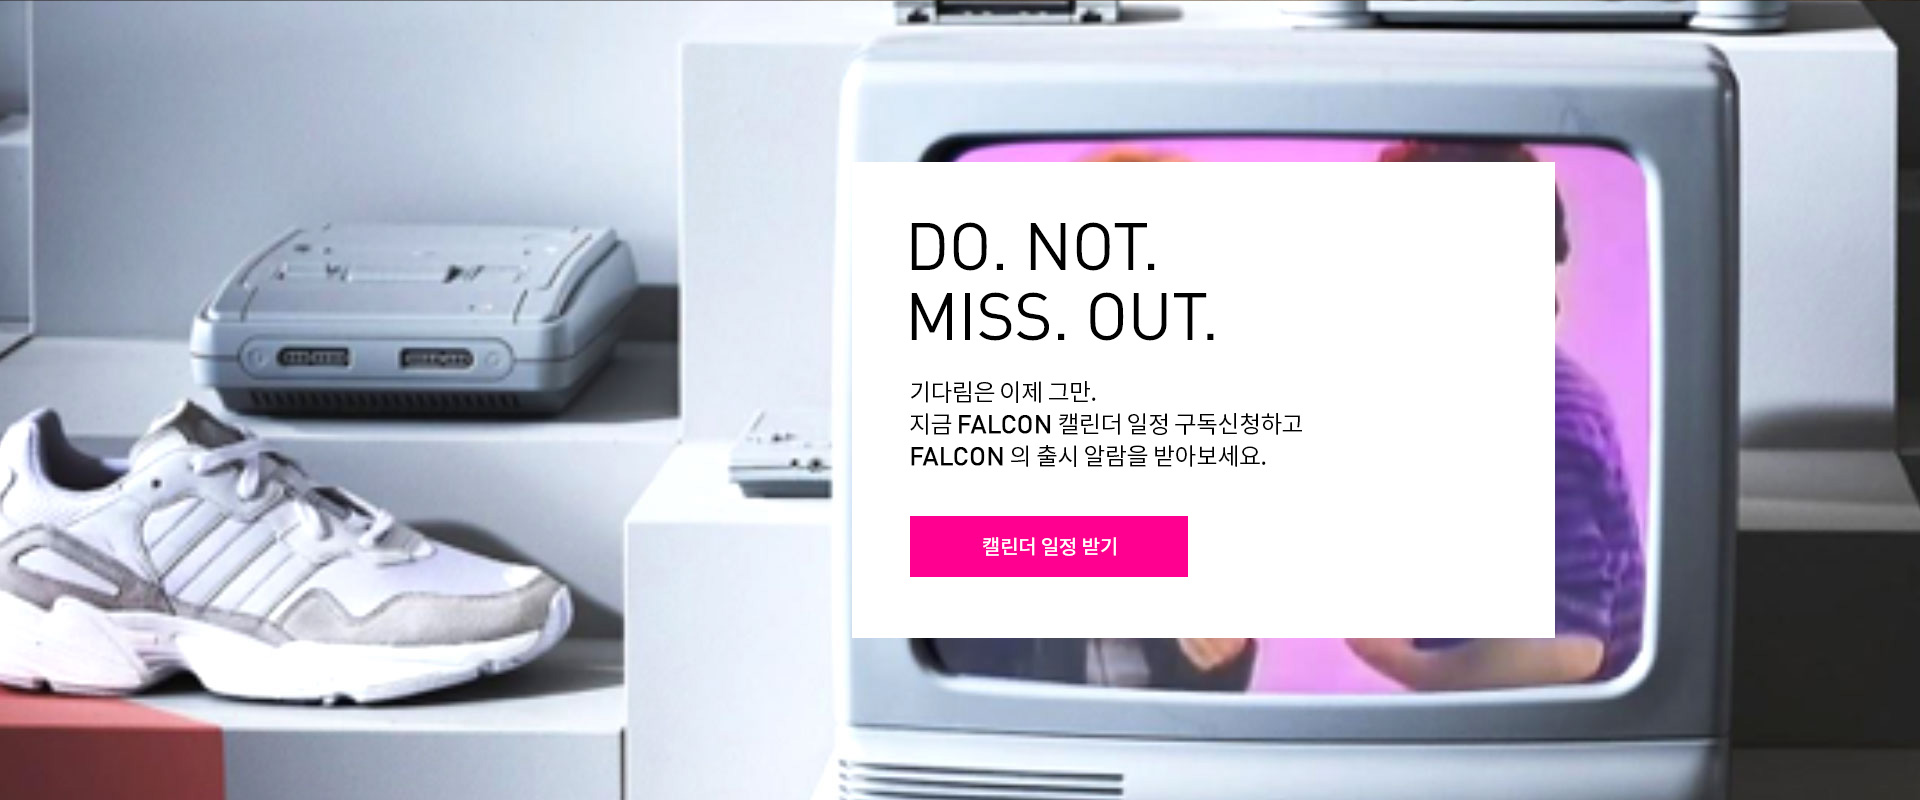
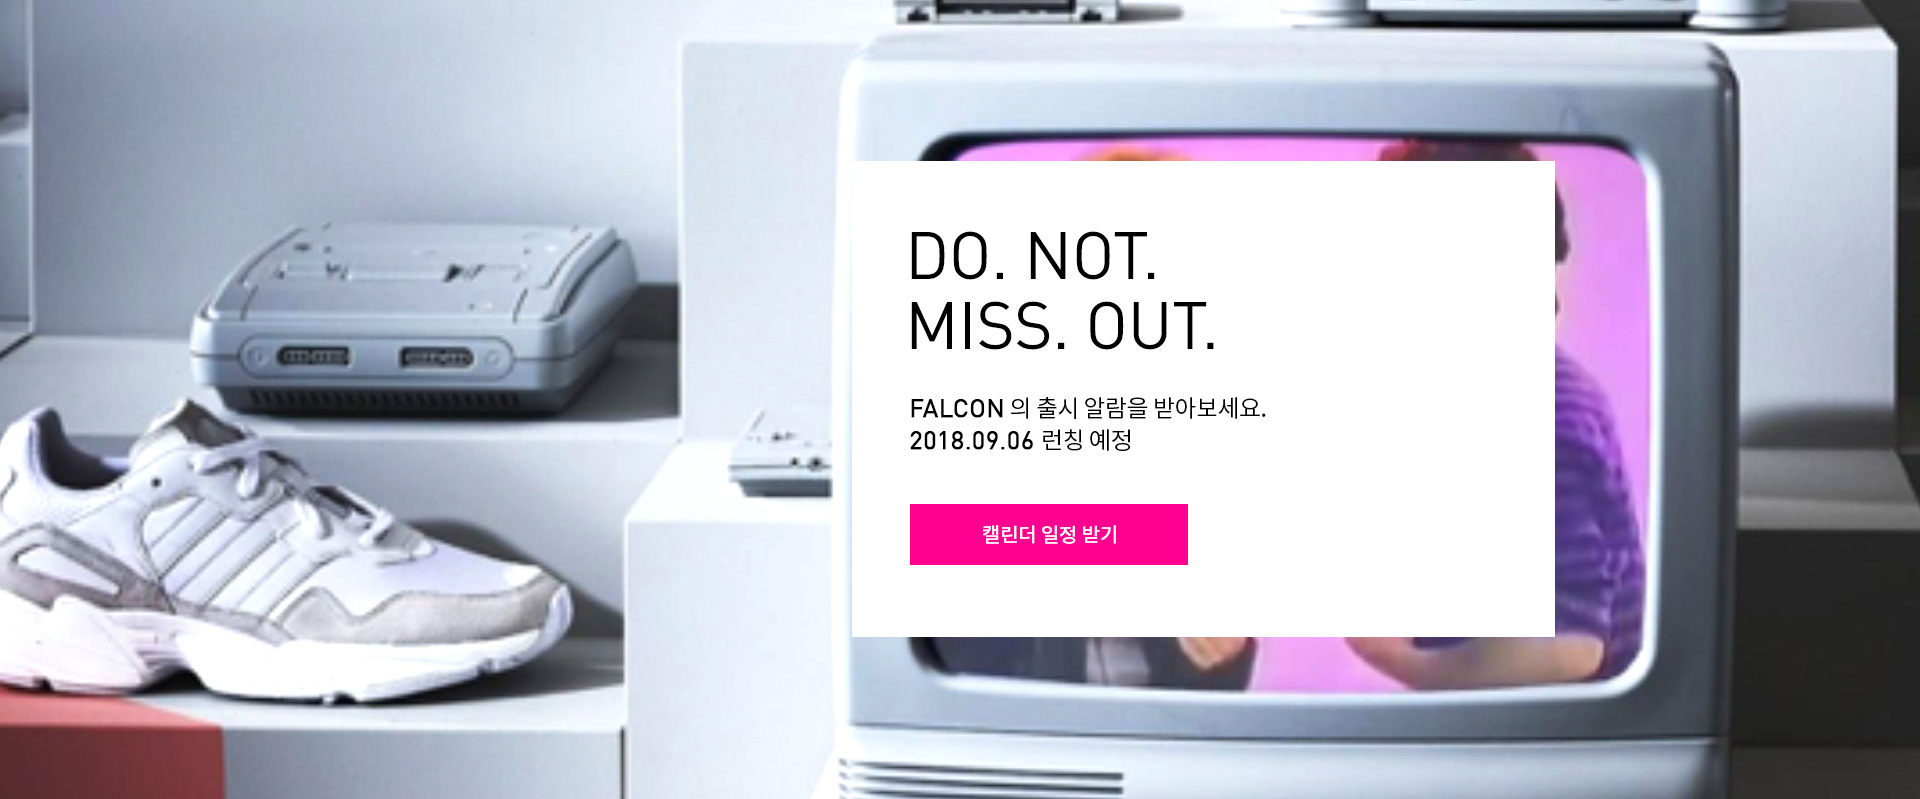
-

diff --git a/app/html/adidas/event/falcon/180830/build/index.html b/app/html/adidas/event/falcon/180830/build/index.html
@@ -1011,7 +1011,7 @@
 		<!-- header HTML -->
 
 		<div id="container_r" class="campaign-content">
-<style type="text/css">.pseudo-element,#preloadPanel div::after{content:'';display:block}#preloadPanel{width:100%;height:100%;background:#fff;position:fixed;top:0;left:0;z-index:1000;transition:opacity 0.9s;-webkit-transition:opacity 0.9s;-moz-transition:opacity 0.9s;-o-transition:opacity 0.9s;-ms-transition:opacity 0.9s}#preloadPanel div{position:relative;font:50px 'adiBlack';color:#000;position:absolute;top:50%;left:50%;transform:translate3d(-50%, -50%, 0);-webkit-transform:translate3d(-50%, -50%, 0);-moz-transform:translate3d(-50%, -50%, 0);-o-transform:translate3d(-50%, -50%, 0);-ms-transform:translate3d(-50%, -50%, 0)}#preloadPanel div::after{position:absolute;top:-110%;left:-210%;width:200%;height:100%;background:rgba(255,255,255,0.5);background:linear-gradient(to right, rgba(255,255,255,0.5) 0%, rgba(255,255,255,0.5) 77%, rgba(255,255,255,0.5) 92%, rgba(255,255,255,0) 100%);opacity:0;filter:alpha(opacity=0);-ms-filter:alpha(opacity=0);transform:rotate(30deg);-webkit-transform:rotate(30deg);-moz-transform:rotate(30deg);-o-transform:rotate(30deg);-ms-transform:rotate(30deg);-webkit-animation-delay:1s;-webkit-animation-duration:1.2s;-webkit-animation-name:shining;-webkit-animation-fill-mode:"forwards";-webkit-animation-iteration-count:"infinite";-moz-animation-delay:1s;-moz-animation-duration:1.2s;-moz-animation-name:shining;-moz-animation-fill-mode:"forwards";-moz-animation-iteration-count:"infinite";-o-animation-delay:1s;-o-animation-duration:1.2s;-o-animation-name:shining;-o-animation-fill-mode:"forwards";-o-animation-iteration-count:"infinite";animation-delay:1s;animation-duration:1.2s;animation-name:shining;animation-fill-mode:"forwards";animation-iteration-count:"infinite";transition-property:left, top, opacity;transition-duration:0.7s, 0.7s, 0.15s;transition-timing-function:ease;-webkit-transition-property:left, top, opacity;-webkit-transition-duration:0.7s, 0.7s, 0.15s;-webkit-transition-timing-function:ease}#preloadPanel.loaded{opacity:0;filter:alpha(opacity=0);-ms-filter:alpha(opacity=0)}.video-viewer{width:100%;height:100%;position:fixed;top:0;left:0;z-index:100}.video-viewer .video{width:100%;height:100%;z-index:6;position:absolute;top:0;left:0}.video-viewer .close{width:50px;height:50px;position:absolute;top:0;right:0;z-index:20;background-position:0 -685px;opacity:0;filter:alpha(opacity=0);-ms-filter:alpha(opacity=0);transition:opacity 0.4s ease-in 0.2s;-webkit-transition:opacity 0.4s ease-in 0.2s;-moz-transition:opacity 0.4s ease-in 0.2s;-o-transition:opacity 0.4s ease-in 0.2s;-ms-transition:opacity 0.4s ease-in 0.2s}.video-viewer .bg{width:100%;height:100%;background:#000;z-index:5;position:absolute;top:0;left:0;opacity:0;filter:alpha(opacity=0);-ms-filter:alpha(opacity=0);transition:opacity 0.4s;-webkit-transition:opacity 0.4s;-moz-transition:opacity 0.4s;-o-transition:opacity 0.4s;-ms-transition:opacity 0.4s}.video-viewer.loaded .bg{opacity:.6;filter:alpha(opacity=60);-ms-filter:alpha(opacity=60)}.video-viewer.loaded .close{opacity:1;filter:alpha(opacity=100);-ms-filter:alpha(opacity=100)}#falcon{position:relative;background:#fff;overflow:hidden}#falcon .spt_bg{color:#fff}#falcon a.button{display:block;position:absolute;width:201px;height:52px;font:500 16px/48px 'NotoSansKR','Nanum Gothic';border:2px solid #fff;color:#000913;background:#fff;transition:all 0.8s;-webkit-transition:all 0.8s;-moz-transition:all 0.8s;-o-transition:all 0.8s;-ms-transition:all 0.8s;letter-spacing:-1px;text-align:center}#falcon a:hover.button{background:none;color:#fff;border:2px solid #fff;font:500 16px/48px 'NotoSansKR','Nanum Gothic'}#falcon a:hover.button span{background-position:100% 0}#falcon a span{display:inline-block;width:20px;height:16px;background:url("http://image.adidas.co.kr/images/adidas/event/iniki/icon.png") no-repeat;background-position:0 0;position:relative;left:8px;top:2px}#falcon a span.btn_w{background-position:100% 0}#falcon .main_visual{position:relative;overflow:hidden;height:927px}#falcon .main_visual .bg{width:1920px;position:absolute;top:0;left:50%;margin-left:-960px;z-index:1}#falcon .main_visual .bg video{width:100%}#falcon .main_visual .txt{position:absolute;top:395px;left:50%;margin-left:-485px;z-index:2}#falcon .main_visual .txt h2 img{width:295px}#falcon .main_visual .txt h3{font:600 62px/65px 'adinenuPro-black';color:#fff;padding-top:100px;margin-left:20px}#falcon .main_visual .txt p{font:400 16px/26px 'NotoSansKR','Nanum Gothic';color:#fff;text-align:left;margin-left:20px}#falcon .main_visual .txt a.button{display:block;position:relative;float:left;margin-top:35px;margin-left:20px;width:201px;height:52px;font:16px/48px 'NotoSansKR','Nanum Gothic';border:2px solid #000;background:#000;color:#fff;transition:all 0.8s;-webkit-transition:all 0.8s;-moz-transition:all 0.8s;-o-transition:all 0.8s;-ms-transition:all 0.8s;letter-spacing:-1px;text-align:center}#falcon .main_visual .txt a:hover.button{background:none;border:2px solid #fff;font:16px/48px 'NotoSansKR','Nanum Gothic'}#falcon #image-grid .image-grid .col .img2-3 .content_inner{position:absolute;top:50%;left:50%;margin-left:-50%;margin-top:-14%}#falcon #image-grid .image-grid .col .img2-3 .content_inner h4{text-align:center;font:60px/50px 'adinenuPro-black';color:#fff;text-transform:uppercase}#falcon #image-grid .image-grid .col .img2-3 .content_inner h4 span{font:50px/40px 'adinenuPro-light'}#falcon #image-grid .image-grid .col .img2-3 .content_inner p{color:#fff;text-align:center;font:400 18px 'NotoSansKR';margin-top:10px}#falcon #image-grid .image-grid .col .img2-3 .content_inner a.button{z-index:2;left:50%;margin-left:-100px;margin-top:35px}#falcon #image-grid .image-grid .col .img2-3 .content_inner a.coming{display:block;position:relative;margin-top:35px;width:261px;height:52px;font:20px/56px 'adinenuPro-black','Nanum Gothic';background:rgba(255,255,255,0.6);cursor:default;color:#000913;text-align:center;left:50%;margin-left:-130px}#falcon .products_collection{width:100%;padding-top:100px;box-sizing:border-box;height:849px;position:relative;background:url("/images/adidas/event/falcon/180830/bg_look.jpg") center center no-repeat}#falcon .products_collection .wide-slider-wrapper{position:relative;width:100%;height:640px;left:inherit;margin-left:inherit;z-index:1;overflow:hidden}#falcon .products_collection .wide-slider-wrapper .arrow-prev{position:absolute;top:48%;left:50%;margin-left:-503px;background:url("/images/adidas/event/falcon/180830/prev.png") 0 0 no-repeat;z-index:2;width:50px;height:50px}#falcon .products_collection .wide-slider-wrapper .arrow-next{position:absolute;top:48%;left:50%;margin-left:469px;background:url("/images/adidas/event/falcon/180830/next.png") 0 0 no-repeat;z-index:2;width:50px;height:50px}#falcon .products_collection .wide-slider-wrapper ul{position:absolute;top:0;width:100%;height:640px}#falcon .products_collection .wide-slider-wrapper ul li{width:890px;margin:0 42px;position:relative;float:left;opacity:0.4;transition:ease-in 0.3s}#falcon .products_collection .wide-slider-wrapper ul li.active{opacity:1}#falcon .products_collection .slider-btn{width:100%;position:relative;padding-top:45px;text-align:center}#falcon .products_collection .slider-btn a{display:inline-block;width:16px;height:16px;text-align:center;margin-right:8px;background:#594c3e;border-radius:50%;-webkit-border-radius:50%;color:#fff}#falcon .products_collection .slider-btn a.on{background:#fff}#falcon .video{position:relative;height:998px}#falcon .video .img{position:relative;left:50%;margin-left:-960px;height:560px}#falcon .video a{position:absolute;display:block;height:99px;width:99px;top:425px;left:50%;margin-left:-60px;z-index:1;background:url("http://image.adidas.co.kr/images/adidas/event/pure_boost/play.png") no-repeat}#falcon .video a:hover{background:url("http://image.adidas.co.kr/images/adidas/event/pure_boost/play_hover.png") no-repeat}#falcon .prd{position:relative;overflow:hidden;height:800px}#falcon .prd img{position:absolute;top:0;left:50%;margin-left:-960px}#falcon .statement2{display:none;position:relative;height:262px;background-color:#000913;padding-top:110px;opacity:1;-moz-transition:top 0.8s,opacity 0.8s;-o-transition:top 0.8s,opacity 0.8s;-webkit-transition:top 0.8s,opacity 0.8s;transition:top 0.8s,opacity 0.8s}#falcon .statement2 p{color:#fff;text-align:center;font:400 16px/26px 'NotoSansKR','Nanum Gothic'}#falcon .statement2 a.button{z-index:2;bottom:100px;left:50%;margin-left:-100px}#falcon .statement2 a.coming{display:block;position:relative;margin-top:35px;width:261px;height:52px;font:20px/56px 'adinenuPro-black','Nanum Gothic';background:rgba(255,255,255,0.6);cursor:default;color:#000913;text-align:center;left:50%;margin-left:-130px}@media screen and (max-width: 1680px){.content_inner h4{font:50px/40px 'adinenuPro-black' !important}.content_inner h4 span{font:40px/30px 'adinenuPro-light' !important}.content_inner p{font:400 16px 'NotoSansKR' !important}}@media screen and (max-width: 1480px){.content_inner h4{font:40px/30px 'adinenuPro-black' !important}.content_inner h4 span{font:30px/20px 'adinenuPro-light' !important}.content_inner p{font:400 14px 'NotoSansKR' !important}}@-webkit-keyframes shining{0%{opacity:0;top:-110%;left:-210%}100%{opacity:1;top:100%;left:100%}}@-moz-keyframes shining{0%{opacity:0;top:-110%;left:-210%}100%{opacity:1;top:100%;left:100%}}@-o-keyframes shining{0%{opacity:0;top:-110%;left:-210%}100%{opacity:1;top:100%;left:100%}}@keyframes shining{0%{opacity:0;top:-110%;left:-210%}100%{opacity:1;top:100%;left:100%}}
+<style type="text/css">.pseudo-element,#preloadPanel div::after{content:'';display:block}#preloadPanel{width:100%;height:100%;background:#fff;position:fixed;top:0;left:0;z-index:1000;transition:opacity 0.9s;-webkit-transition:opacity 0.9s;-moz-transition:opacity 0.9s;-o-transition:opacity 0.9s;-ms-transition:opacity 0.9s}#preloadPanel div{position:relative;font:50px 'adiBlack';color:#000;position:absolute;top:50%;left:50%;transform:translate3d(-50%, -50%, 0);-webkit-transform:translate3d(-50%, -50%, 0);-moz-transform:translate3d(-50%, -50%, 0);-o-transform:translate3d(-50%, -50%, 0);-ms-transform:translate3d(-50%, -50%, 0)}#preloadPanel div::after{position:absolute;top:-110%;left:-210%;width:200%;height:100%;background:rgba(255,255,255,0.5);background:linear-gradient(to right, rgba(255,255,255,0.5) 0%, rgba(255,255,255,0.5) 77%, rgba(255,255,255,0.5) 92%, rgba(255,255,255,0) 100%);opacity:0;filter:alpha(opacity=0);-ms-filter:alpha(opacity=0);transform:rotate(30deg);-webkit-transform:rotate(30deg);-moz-transform:rotate(30deg);-o-transform:rotate(30deg);-ms-transform:rotate(30deg);-webkit-animation-delay:1s;-webkit-animation-duration:1.2s;-webkit-animation-name:shining;-webkit-animation-fill-mode:"forwards";-webkit-animation-iteration-count:"infinite";-moz-animation-delay:1s;-moz-animation-duration:1.2s;-moz-animation-name:shining;-moz-animation-fill-mode:"forwards";-moz-animation-iteration-count:"infinite";-o-animation-delay:1s;-o-animation-duration:1.2s;-o-animation-name:shining;-o-animation-fill-mode:"forwards";-o-animation-iteration-count:"infinite";animation-delay:1s;animation-duration:1.2s;animation-name:shining;animation-fill-mode:"forwards";animation-iteration-count:"infinite";transition-property:left, top, opacity;transition-duration:0.7s, 0.7s, 0.15s;transition-timing-function:ease;-webkit-transition-property:left, top, opacity;-webkit-transition-duration:0.7s, 0.7s, 0.15s;-webkit-transition-timing-function:ease}#preloadPanel.loaded{opacity:0;filter:alpha(opacity=0);-ms-filter:alpha(opacity=0)}.video-viewer{width:100%;height:100%;position:fixed;top:0;left:0;z-index:100}.video-viewer .video{width:100%;height:100%;z-index:6;position:absolute;top:0;left:0}.video-viewer .close{width:50px;height:50px;position:absolute;top:0;right:0;z-index:20;background-position:0 -685px;opacity:0;filter:alpha(opacity=0);-ms-filter:alpha(opacity=0);transition:opacity 0.4s ease-in 0.2s;-webkit-transition:opacity 0.4s ease-in 0.2s;-moz-transition:opacity 0.4s ease-in 0.2s;-o-transition:opacity 0.4s ease-in 0.2s;-ms-transition:opacity 0.4s ease-in 0.2s}.video-viewer .bg{width:100%;height:100%;background:#000;z-index:5;position:absolute;top:0;left:0;opacity:0;filter:alpha(opacity=0);-ms-filter:alpha(opacity=0);transition:opacity 0.4s;-webkit-transition:opacity 0.4s;-moz-transition:opacity 0.4s;-o-transition:opacity 0.4s;-ms-transition:opacity 0.4s}.video-viewer.loaded .bg{opacity:.6;filter:alpha(opacity=60);-ms-filter:alpha(opacity=60)}.video-viewer.loaded .close{opacity:1;filter:alpha(opacity=100);-ms-filter:alpha(opacity=100)}#falcon{position:relative;background:#fff;overflow:hidden}#falcon .spt_bg{color:#fff}#falcon a.button{display:block;position:absolute;width:201px;height:52px;font:500 16px/48px 'NotoSansKR','Nanum Gothic';border:2px solid #fff;color:#000913;background:#fff;transition:all 0.8s;-webkit-transition:all 0.8s;-moz-transition:all 0.8s;-o-transition:all 0.8s;-ms-transition:all 0.8s;letter-spacing:-1px;text-align:center}#falcon a:hover.button{background:none;color:#fff;border:2px solid #fff;font:500 16px/48px 'NotoSansKR','Nanum Gothic'}#falcon a:hover.button span{background-position:100% 0}#falcon a span{display:inline-block;width:20px;height:16px;background:url("http://image.adidas.co.kr/images/adidas/event/iniki/icon.png") no-repeat;background-position:0 0;position:relative;left:8px;top:2px}#falcon a span.btn_w{background-position:100% 0}#falcon .main_visual{position:relative;overflow:hidden;height:927px}#falcon .main_visual .bg{width:1920px;position:absolute;top:0;left:50%;margin-left:-960px;z-index:1}#falcon .main_visual .bg video{width:100%}#falcon .main_visual .txt{position:absolute;top:395px;left:50%;margin-left:-485px;z-index:2}#falcon .main_visual .txt h2 img{width:295px}#falcon .main_visual .txt h3{font:600 62px/65px 'adinenuPro-black';color:#fff;padding-top:100px;margin-left:20px}#falcon .main_visual .txt p{font:400 16px/26px 'NotoSansKR','Nanum Gothic';color:#fff;text-align:left;margin-left:20px}#falcon .main_visual .txt a.button{display:block;position:relative;float:left;margin-top:35px;margin-left:20px;width:201px;height:52px;font:16px/48px 'NotoSansKR','Nanum Gothic';border:2px solid #000;background:#000;color:#fff;transition:all 0.8s;-webkit-transition:all 0.8s;-moz-transition:all 0.8s;-o-transition:all 0.8s;-ms-transition:all 0.8s;letter-spacing:-1px;text-align:center}#falcon .main_visual .txt a:hover.button{background:none;border:2px solid #fff;font:16px/48px 'NotoSansKR','Nanum Gothic'}#falcon #image-grid .image-grid .col .img2-3 .content_inner{position:absolute;top:50%;left:50%;margin-left:-50%;margin-top:-14%}#falcon #image-grid .image-grid .col .img2-3 .content_inner h4{text-align:center;font:60px/50px 'adinenuPro-black';color:#fff;text-transform:uppercase}#falcon #image-grid .image-grid .col .img2-3 .content_inner h4 span{font:50px/40px 'adinenuPro-light'}#falcon #image-grid .image-grid .col .img2-3 .content_inner p{color:#fff;text-align:center;font:400 18px 'NotoSansKR';margin-top:10px}#falcon #image-grid .image-grid .col .img2-3 .content_inner a.button{z-index:2;left:50%;margin-left:-100px;margin-top:35px}#falcon #image-grid .image-grid .col .img2-3 .content_inner a.coming{display:block;position:relative;margin-top:35px;width:261px;height:52px;font:20px/56px 'adinenuPro-black','Nanum Gothic';background:rgba(255,255,255,0.6);cursor:default;color:#000913;text-align:center;left:50%;margin-left:-130px}#falcon .products_collection{width:100%;padding-top:100px;box-sizing:border-box;height:849px;position:relative;background:url("/images/adidas/event/falcon/180830/bg_look.jpg") center center no-repeat}#falcon .products_collection .wide-slider-wrapper{position:relative;width:100%;height:640px;left:inherit;margin-left:inherit;z-index:1;overflow:hidden}#falcon .products_collection .wide-slider-wrapper .arrow-prev{position:absolute;top:48%;left:50%;margin-left:-503px;background:url("/images/adidas/event/falcon/180830/prev.png") 0 0 no-repeat;z-index:2;width:50px;height:50px}#falcon .products_collection .wide-slider-wrapper .arrow-next{position:absolute;top:48%;left:50%;margin-left:469px;background:url("/images/adidas/event/falcon/180830/next.png") 0 0 no-repeat;z-index:2;width:50px;height:50px}#falcon .products_collection .wide-slider-wrapper ul{position:absolute;top:0;width:100%;height:640px}#falcon .products_collection .wide-slider-wrapper ul li{width:890px;margin:0 42px;position:relative;float:left;opacity:0.4;transition:ease-in 0.3s}#falcon .products_collection .wide-slider-wrapper ul li.active{opacity:1}#falcon .products_collection .slider-btn{width:100%;position:relative;padding-top:45px;text-align:center}#falcon .products_collection .slider-btn a{display:inline-block;width:16px;height:16px;text-align:center;margin-right:8px;background:#594c3e;border-radius:50%;-webkit-border-radius:50%;color:#fff}#falcon .products_collection .slider-btn a.on{background:#fff}#falcon .video{position:relative;height:998px}#falcon .video .img{position:relative;left:50%;margin-left:-960px;height:560px}#falcon .video a{position:absolute;display:block;height:99px;width:99px;top:425px;left:50%;margin-left:-60px;z-index:1;background:url("http://image.adidas.co.kr/images/adidas/event/pure_boost/play.png") no-repeat}#falcon .video a:hover{background:url("http://image.adidas.co.kr/images/adidas/event/pure_boost/play_hover.png") no-repeat}#falcon .prd{position:relative;overflow:hidden;height:799px}#falcon .prd img{position:absolute;top:0;left:50%;margin-left:-960px}@media screen and (max-width: 1680px){.content_inner h4{font:50px/40px 'adinenuPro-black' !important}.content_inner h4 span{font:40px/30px 'adinenuPro-light' !important}.content_inner p{font:400 16px 'NotoSansKR' !important}}@media screen and (max-width: 1480px){.content_inner h4{font:40px/30px 'adinenuPro-black' !important}.content_inner h4 span{font:30px/20px 'adinenuPro-light' !important}.content_inner p{font:400 14px 'NotoSansKR' !important}}@-webkit-keyframes shining{0%{opacity:0;top:-110%;left:-210%}100%{opacity:1;top:100%;left:100%}}@-moz-keyframes shining{0%{opacity:0;top:-110%;left:-210%}100%{opacity:1;top:100%;left:100%}}@-o-keyframes shining{0%{opacity:0;top:-110%;left:-210%}100%{opacity:1;top:100%;left:100%}}@keyframes shining{0%{opacity:0;top:-110%;left:-210%}100%{opacity:1;top:100%;left:100%}}
 </style>
 			<link type="text/css" rel="stylesheet" href="/css/adidas/event/campaign.css"/>
 			<script type="text/javascript" src="/js/adidas/event/commonCampaign.js"></script>
@@ -1019,7 +1019,8 @@
 
 			<div id="falcon">
 				<div class="main_visual">
-					<div class="bg"><video src="https://www.adidas.com/5280/campaigns/originals-fw18-falcon/originals-fw18-falcon-NonJapan.mp4" loop="" muted="" autoplay="" playsinline=""></div>
+					<div class="bg"><img src="/images/adidas/event/falcon/180830/visual.jpg" alt=""></div>
+					<!-- <div class="bg"><video src="https://www.adidas.com/5280/campaigns/originals-fw18-falcon/originals-fw18-falcon-NonJapan.mp4" loop="" muted="" autoplay="" playsinline=""></div> -->
 					<div class="txt">
 						<h2><img src="/images/adidas/event/falcon/180601/logo.png" alt=""></h2>
 						<h3>LIKE IT'S 1997</h3>
@@ -1067,7 +1068,7 @@
 				<div class="prd">
 					<img src="/images/adidas/event/falcon/180830/bottom.jpg" alt="falcon_btm_img" usemap="#map1">
 					<map name="map1" id="map1">
-						<area shape="rect" coords="910,516,1186,576" href="https://linder.kr/s/adidasfalcon" alt="캘린더 일정 받기">
+						<area shape="rect" coords="910,504,1186,563" href="https://linder.kr/s/adidasfalcon" alt="캘린더 일정 받기">
 					</map>
 				</div>
 
@@ -1083,7 +1084,7 @@
 						},
 						img1_2 : {
 							thumb : '/images/adidas/event/falcon/180830/gal03.jpg',
-							html : '<h4>BACK LIKE IT<br />NEVER LEFT</h4><p>97년 출시된 Falcon DORF에서 영감을 받은 Falcon은 당당한 애티튜드, 그 자체입니다.<br>Falcon과 함께 누구에게도 휘둘리지 않는 자신감으로 당신만의 스토리를 들려주세요.</p><a href="https://linder.kr/s/adidasfalcon" class="button" >캘린더 <span class="spt_bg"></span></a>'
+							html : '<h4>BACK LIKE IT<br />NEVER LEFT</h4><p>97년 출시된 FALCON DORF에서 영감을 받은<br />FALCON은 당당한 애티튜드, 그 자체입니다.</p><a href="https://linder.kr/s/adidasfalcon" class="button" >캘린더 <span class="spt_bg"></span></a>'
 						},
 						img2_1 : {
 							thumb : '/images/adidas/event/falcon/180830/gal04.jpg'

diff --git a/app/html/adidas/event/falcon/180830/index.html b/app/html/adidas/event/falcon/180830/index.html
@@ -1017,7 +1017,8 @@
 
 			<div id="falcon">
 				<div class="main_visual">
-					<div class="bg"><video src="https://www.adidas.com/5280/campaigns/originals-fw18-falcon/originals-fw18-falcon-NonJapan.mp4" loop="" muted="" autoplay="" playsinline=""></div>
+					<div class="bg"><img src="/images/adidas/event/falcon/180830/visual.jpg" alt=""></div>
+					<!-- <div class="bg"><video src="https://www.adidas.com/5280/campaigns/originals-fw18-falcon/originals-fw18-falcon-NonJapan.mp4" loop="" muted="" autoplay="" playsinline=""></div> -->
 					<div class="txt">
 						<h2><img src="/images/adidas/event/falcon/180601/logo.png" alt=""></h2>
 						<h3>LIKE IT'S 1997</h3>
@@ -1065,7 +1066,7 @@
 				<div class="prd">
 					<img src="/images/adidas/event/falcon/180830/bottom.jpg" alt="falcon_btm_img" usemap="#map1">
 					<map name="map1" id="map1">
-						<area shape="rect" coords="910,516,1186,576" href="https://linder.kr/s/adidasfalcon" alt="캘린더 일정 받기">
+						<area shape="rect" coords="910,504,1186,563" href="https://linder.kr/s/adidasfalcon" alt="캘린더 일정 받기">
 					</map>
 				</div>
 
@@ -1081,7 +1082,7 @@
 						},
 						img1_2 : {
 							thumb : '/images/adidas/event/falcon/180830/gal03.jpg',
-							html : '<h4>BACK LIKE IT<br />NEVER LEFT</h4><p>97년 출시된 Falcon DORF에서 영감을 받은 Falcon은 당당한 애티튜드, 그 자체입니다.<br>Falcon과 함께 누구에게도 휘둘리지 않는 자신감으로 당신만의 스토리를 들려주세요.</p><a href="https://linder.kr/s/adidasfalcon" class="button" >캘린더 <span class="spt_bg"></span></a>'
+							html : '<h4>BACK LIKE IT<br />NEVER LEFT</h4><p>97년 출시된 FALCON DORF에서 영감을 받은<br />FALCON은 당당한 애티튜드, 그 자체입니다.</p><a href="https://linder.kr/s/adidasfalcon" class="button" >캘린더 <span class="spt_bg"></span></a>'
 						},
 						img2_1 : {
 							thumb : '/images/adidas/event/falcon/180830/gal04.jpg'

diff --git a/app/html/adidas/event/falcon/180830/index.scss b/app/html/adidas/event/falcon/180830/index.scss
@@ -379,7 +379,7 @@
 	.prd{
 		position: relative;
 		overflow: hidden;
-		height: 800px;
+		height: 799px;
 		img{
 			position: absolute;
 			top: 0;
@@ -387,47 +387,10 @@
 			margin-left: -960px;
 		}
 	}
-	.statement2{
-		display: none;
-		position: relative;
-		height: 262px;
-		background-color: #000913;
-		padding-top: 110px;
-		opacity:1;
-		-moz-transition:top 0.8s,opacity 0.8s;
-		-o-transition:top 0.8s,opacity 0.8s;
-		-webkit-transition:top 0.8s,opacity 0.8s;
-		  transition:top 0.8s,opacity 0.8s;
-		p{
-			color:#fff;
-			text-align: center;
-			font:400 16px/26px 'NotoSansKR','Nanum Gothic';
-		}
-		a.button{
-			z-index: 2;
-			bottom: 100px;
-			left: 50%;
-			margin-left: -100px;
-		}
-		a.coming{
-			display: block;
-			position: relative;
-			margin-top: 35px;
-			width: 261px;
-			height: 52px;
-			font: 20px/56px 'adinenuPro-black','Nanum Gothic';
-			background: rgba(255, 255, 255, 0.6);
-			cursor:  default;
-			color: #000913;
-			text-align: center;
-			left: 50%;
-			margin-left: -130px;
-		}
-	}
 }
 
 @media screen and(max-width:1680px){
-	.content_inner{		
+	.content_inner{
 		h4{
 			font:50px/40px 'adinenuPro-black' !important;
 			span{
